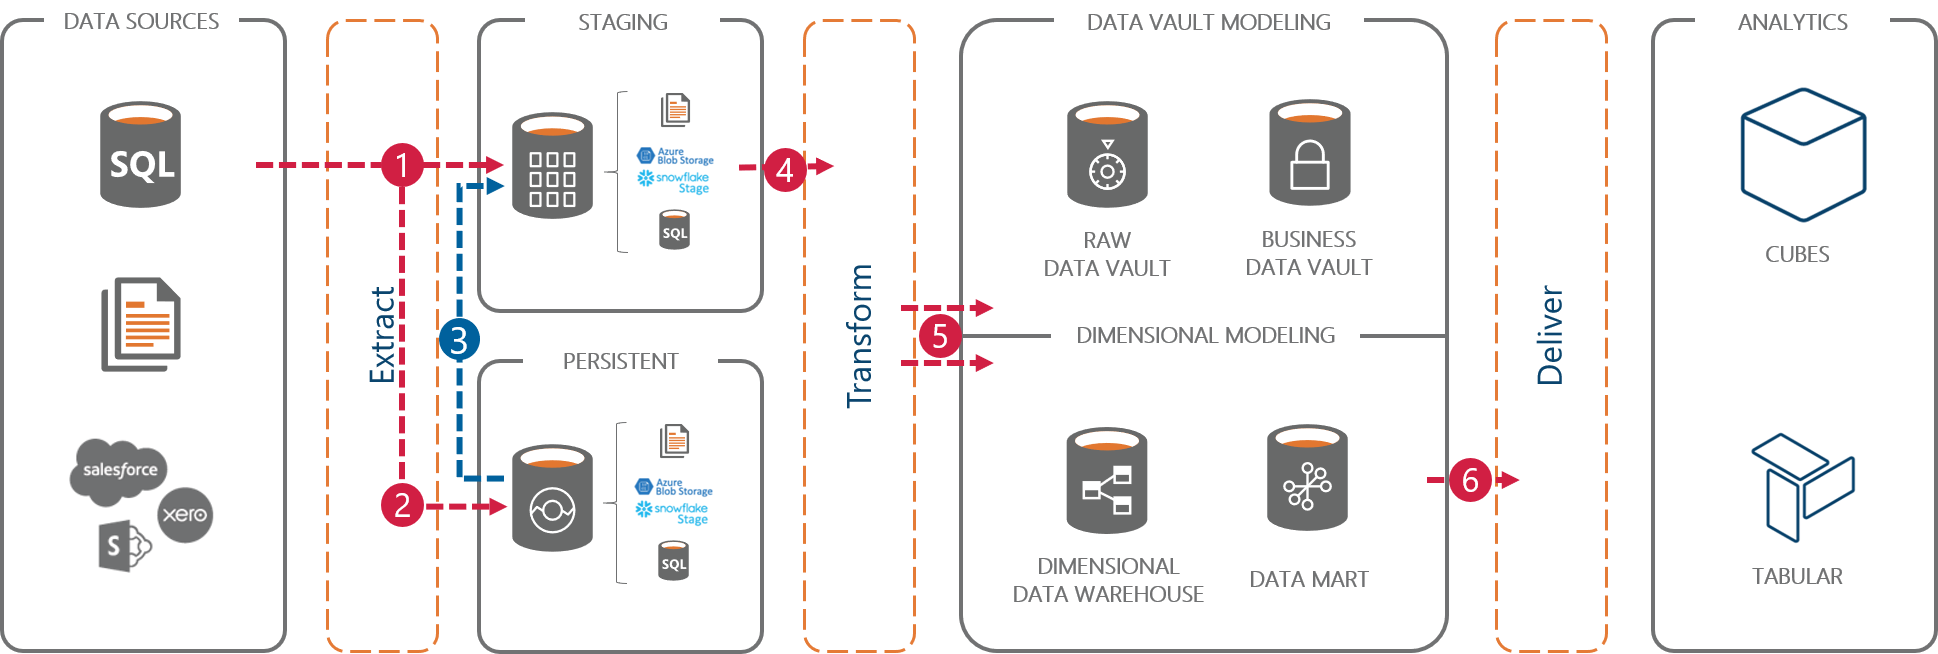
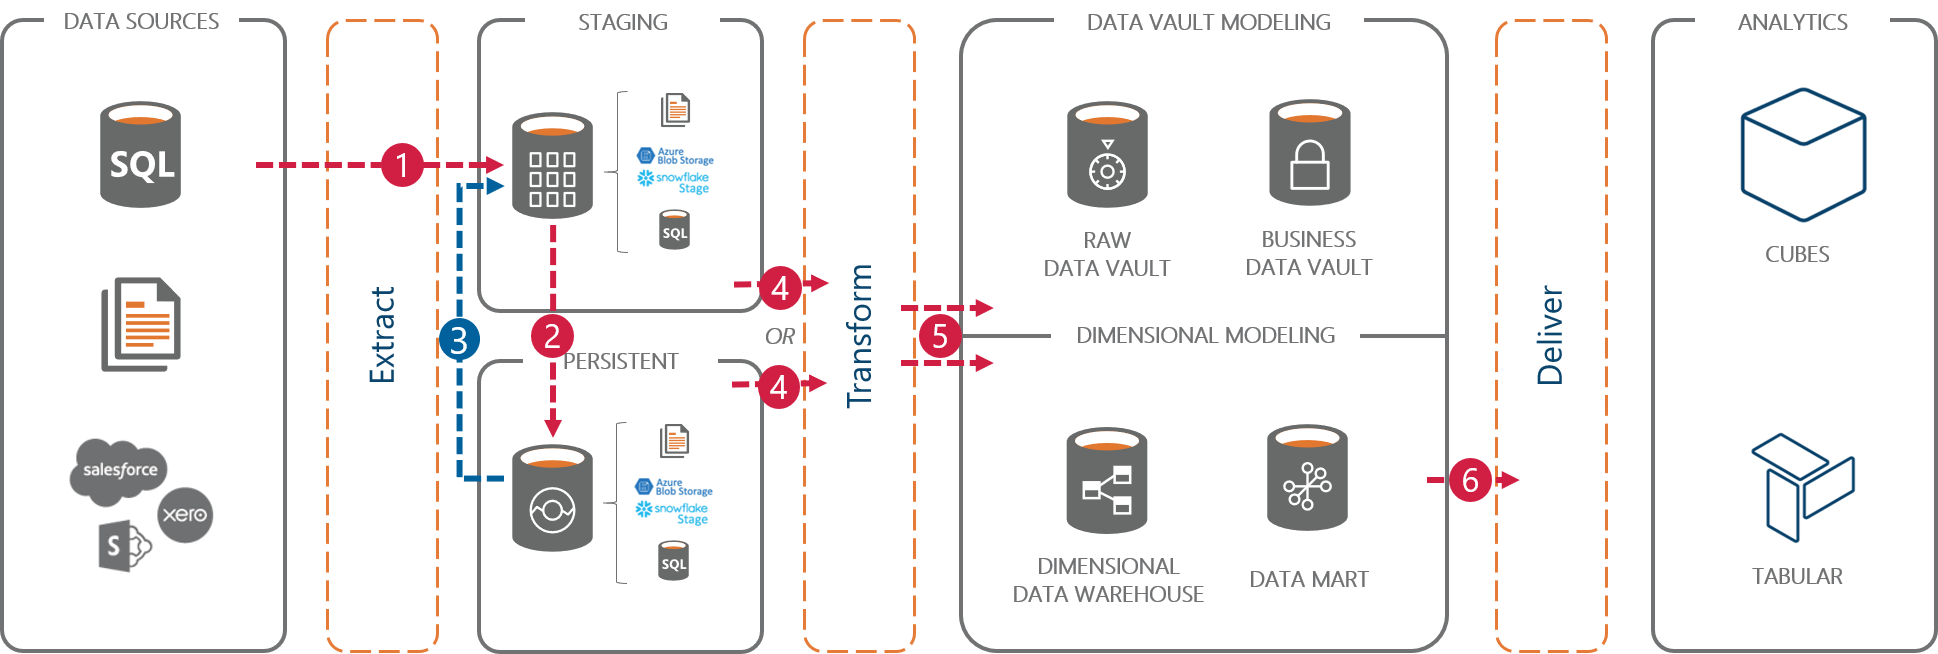
Updated PSA diagram and supporting text.

diff --git a/bimlflex/concepts/persistent-staging-area.md b/bimlflex/concepts/persistent-staging-area.md
@@ -36,14 +36,16 @@ In this setup, an option to `Persist History` is available. When this option is 
 
 ## Data flows related to the PSA
 
-If added to the design, the PSA can be used in various ways in the solution. In the diagram below the data flow the incoming data (delta / differential) is loaded into the staging area and the PSA in the same batch. During regular processing the data is loaded into the next layers from the staging area.
+If added to the design, the PSA can be used in various ways in the solution.
 
-In this configuration the PSA can be used for re-initialization. During re-initialization the regular processing is paused and the full history from the PSA is loaded into selected staging area tables. The upstream layers can be reloaded from here and using the historical data that is now available. This is the 3rd data flow in the diagram.
+During regular processing the data is loaded into the next layers from the staging area. For ETL style loading patterns, data can be loaded into the staging area and the PSA in the same batch. Most ETL style patterns first load data into the staging area and then merge the differential into the PSA.
+
+The PSA can be used for *re-initialization*. During re-initialization, the regular processing is paused and the full history from the PSA is loaded into selected staging area tables. The upstream layers can be reloaded from here and using the historical data that is now available. This is the 3rd data flow in the diagram.
 
 ![Persistent Staging](images/bimlflex-dataflow-reinitialisation.png "Persistent Staging for re-initialization")
 
-In other configurations the PSA can also be used directly to populate the upstream layers with data. This makes the PSA an integral part of the solution. The staging area is still used for various purposes, such as deriving the data delta and staging flat files.
+However, this is not the only way to do this. In other configurations the PSA can also be used directly to populate the upstream layers with data. This makes the PSA an integral part of the solution. The staging area is still used for various purposes, such as deriving the data delta and staging flat files.
 
 This approach uses an `Staged Query` entity type, which allows an already available (staged) dataset to be used for further processing to a Data Vault or Dimensional model. The interface between the PSA and the upstream model (Data Vault or Dimensional) must be defined as a separate object in the metadata to allow processing.
 
-![Persistent Staging](images/bimlflex-dataflow-psa-centric.png "Persistent Staging as data solution foundation")
+Essentially, the Staged Query is used to retrieve data from the PSA.
